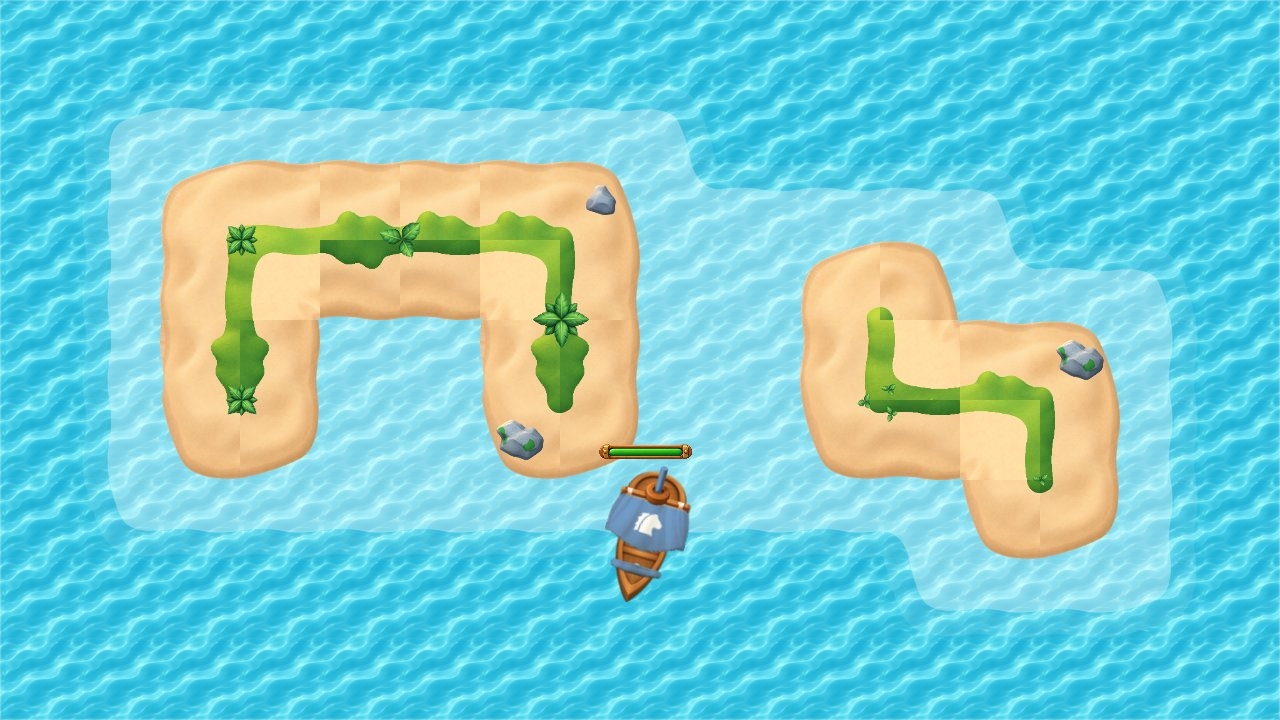
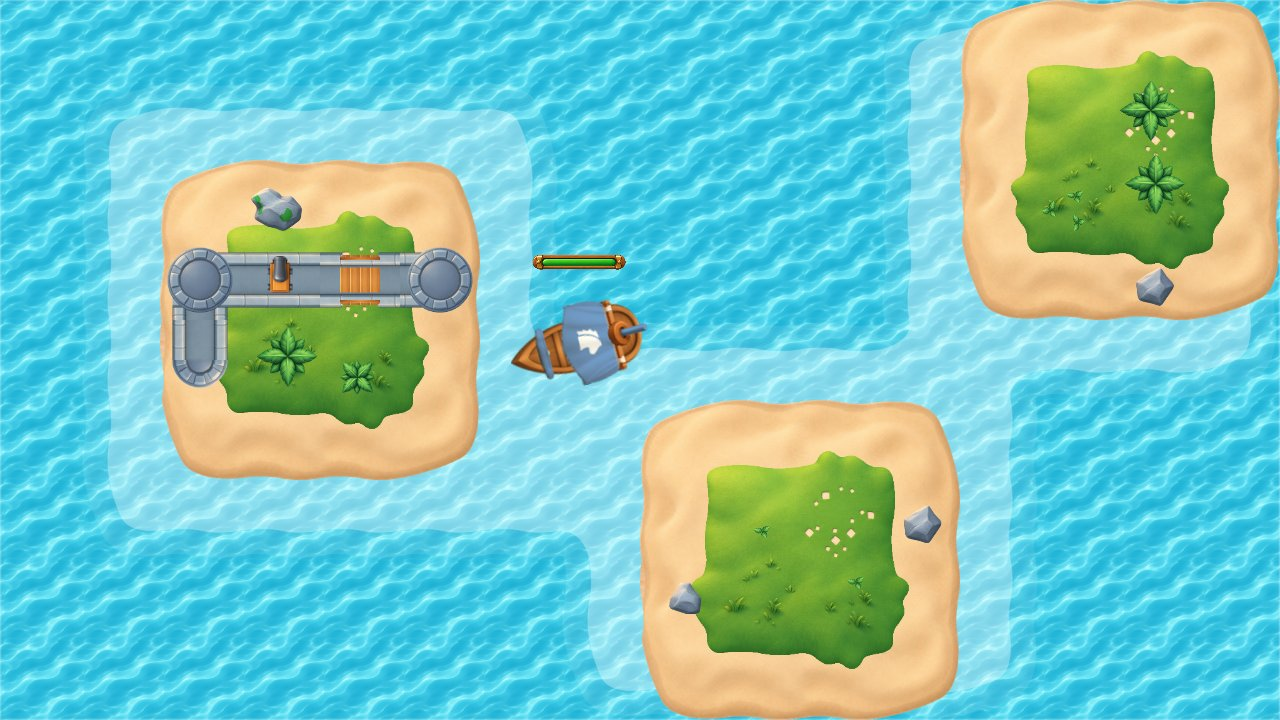
docs: record the arena polish, mockup comparison and new balance numbers

diff --git a/docs/DECISIONS.md b/docs/DECISIONS.md
@@ -20,7 +20,7 @@ Newest phase first within each section.
 | Chaser             | HP 30, speed 105 u/s, turn 120°/s, ram damage 20 (rebalanced, DECISIONS S17).                                                                                                                                                      |
 | Shooter            | HP 50, speed 90 u/s, turn 90°/s, range 300 u, standoff 220 u, dmg 7, cd 2.5 s (rebalanced, DECISIONS S17), aim tolerance 12°.                                                                                                      |
 | Damage stages      | HP ratio > 2/3 → 0; > 1/3 → 1; > 0 → 2; dead → 3 (wreck, 0.8 s sink fade, non-colliding). Fire effect at stage ≥ 1.                                                                                                                |
-| HP bar colours     | Player: green > 50 %, amber > 25 %, red. Enemy: green > 40 %, red (no amber enemy fill in the atlas).                                                                                                                              |
+| HP bar colours     | Player: green > 50 %, amber > 25 %, red. Enemy: always red, as in the mockup (revised in Phase 2 polish, R17).                                                                                                                     |
 | Ship colours       | Player blue (`ship_5`), Chaser black skull (`ship_2`), Shooter red (`ship_3`).                                                                                                                                                     |
 | Scoring            | +1 only on `shipDestroyed` with `killer === player`; ram death = 0.                                                                                                                                                                |
 | Effective duration | Active (unpaused) simulated seconds until end.                                                                                                                                                                                     |
@@ -36,10 +36,10 @@ Newest phase first within each section.
 | #   | Decision                                                                                                                                                                                                                                                                                                                                                                                                                                                                                                                                                                                                                                                                                                                                                                                                                                                                                                                                                                                                                                                                                                                                                                                                                                                                |
 | --- | ----------------------------------------------------------------------------------------------------------------------------------------------------------------------------------------------------------------------------------------------------------------------------------------------------------------------------------------------------------------------------------------------------------------------------------------------------------------------------------------------------------------------------------------------------------------------------------------------------------------------------------------------------------------------------------------------------------------------------------------------------------------------------------------------------------------------------------------------------------------------------------------------------------------------------------------------------------------------------------------------------------------------------------------------------------------------------------------------------------------------------------------------------------------------------------------------------------------------------------------------------------------------- |
 | R1  | **2× ship atlas from the vector.** `pnpm assets:build` rasterizes `assets/vector/ships_miscellaneous_vector.svg` at 2× with **`@resvg/resvg-js`** (dev dependency: a maintained, dependency-free SVG renderer with prebuilt binaries for Windows and Linux, no native build step). The SVG is a 1280×720 overview in the `preview.png` layout with no sprite ids, so read as-is none of the 102 frames lines up with the 1024×512 sheet. A one-time offline script (`scripts/locate-vector-frames.mjs`, coarse search on 4×-reduced images, small frames at full 1×, refinement at half-pixel precision, ~1 min) located **95 of 102 frames**, including all 34 the game draws (ships, ball, explosions, fire, debris; worst error 6.4/255); its result is committed as `scripts/data/ships-vector-frames.json`. Not located: `crew_1…6` (error 17–23: drawn differently in the overview) and `pole` (10.4) — unused in the game, upscaled from 1× in the 2× sheet. The build re-packs the 2× raster into the 1× layout and ships `ships_sheet@2x` only if **every** frame, box-filtered back to 1×, matches the raster sheet (tolerance 8/255 per channel); otherwise it falls back to 1× (status in `manifest.json`). Guarded by `tests/tooling/vectorAtlas.test.ts`. |
-| R2  | **Map change.** The L island's one-tile step (row 5) needs an edge and a concave corner in one tile, which the shore tile sets do not have. Row 4 of the L now spans cols 10–13 (+2 island cells). `validateMap` gained a rule backed by `shoreShape` (core): every island cell must map to one fill/edge/outer/inner-corner tile, so art and collision can never drift apart again.                                                                                                                                                                                                                                                                                                                                                                                                                                                                                                                                                                                                                                                                                                                                                                                                                                                                                    |
-| R3  | **Tile set and padding.** Islands use the sand-with-grass set (6–9/22–25/38–41/54–57); the "sand clearing" tiles 36/37/52/53 serve as concave corners (their borders line up with the edge tiles, checked pixel by pixel). Shallow water (10–12/26–28/42–44, concave 58/59/74/75) rings every island by one tile; where two rings meet in an undrawable step the mask is grown until drawable. The tile sheet has no spacing, so the build re-packs it with 2 px (4 px at 2×) of edge extrusion: linear filtering at non-integer scales no longer samples neighbouring tiles (seams).                                                                                                                                                                                                                                                                                                                                                                                                                                                                                                                                                                                                                                                                                   |
+| R2  | **Map change** (superseded by R15; the layout lives on as `POCKET_MAP` for system tests). The L island's one-tile step (row 5) needs an edge and a concave corner in one tile, which the shore tile sets do not have. Row 4 of the L now spans cols 10–13 (+2 island cells). `validateMap` gained a rule backed by `shoreShape` (core): every island cell must map to one fill/edge/outer/inner-corner tile, so art and collision can never drift apart again.                                                                                                                                                                                                                                                                                                                                                                                                                                                                                                                                                                                                                                                                                                                                                                                                          |
+| R3  | **Tile set and padding.** Islands use the sand-with-grass set (6–9/22–25/38–41/54–57, see R14 for how it is laid out); the "sand clearing" tiles 36/37/52/53 serve as concave corners. Shallow water (10–12/26–28/42–44, concave 58/59/74/75) rings every island by one tile; where two rings meet in an undrawable step the mask is grown until drawable. The tile sheet has no spacing, so the build re-packs it with 2 px (4 px at 2×) of edge extrusion: linear filtering at non-integer scales no longer samples neighbouring tiles.                                                                                                                                                                                                                                                                                                                                                                                                                                                                                                                                                                                                                                                                                                                               |
 | R4  | **Collision vs shore art.** Measured on the tiles: straight shores lie 0–3 px (mean 1.5) inside the tile edge → `arena.islandCollisionInset` stays **0**. The rounded corners fit a circle; a square collision corner left up to 24 px of water between hull and sand on the diagonal. New `arena.islandCornerRadius` = **61**: best single radius against the corner tiles (max 4.0 px of water and 4.0 px of sand overlap anywhere on the arc, ≈ 2.7 px near the diagonal; 59 → 4.4 px gap, 62 → 4.4 px overlap). Only convex shore corners are rounded (an island cell whose two outer neighbours are water — exactly the cells drawn with corner tiles, tested); junctions between rects of one island stay square, so nothing can tunnel there. Ships (circle vs corner circle) and balls (swept, exact against the convex rounded rect) use the same shape; spawner, steering feelers and line of sight too. Side effect: the naive bot no longer gets trapped on square corners, so the bot test stopped comparing Chaser rams (BALANCE re-run: skilled median 89.4 → 93.4 s, time_up 6 → 4 %; naive 90.5 → 98.9 s, 4 → 24 %).                                                                                                                                   |
-| R5  | **Render reads, never decides**: views take `DeepReadonly<World>`; a Node unit test renders a deep-frozen world. Effects/sounds come only from `DomainEvent`s through pure mappings; positions interpolate with the stepper alpha; ship views, balls, effects and HP bars are pooled. Enemy bars: `enemy_health_frame` at 0.4 (64 px wide over a 66 px ship), green > 40 % else red; player bar: `health_frame` at 0.3 with green/amber/red. Fill clipped by its texture frame from `ui.layout.fill_rect` (no masks, so bars batch).                                                                                                                                                                                                                                                                                                                                                                                                                                                                                                                                                                                                                                                                                                                                    |
+| R5  | **Render reads, never decides**: views take `DeepReadonly<World>`; a Node unit test renders a deep-frozen world. Effects/sounds come only from `DomainEvent`s through pure mappings; positions interpolate with the stepper alpha; ship views, balls, effects and HP bars are pooled. Enemy bars: `enemy_health_frame` at 0.4 (64 px wide over a 66 px ship), always red (R17); player bar: `health_frame` at 0.3 with green/amber/red. Fill clipped by its texture frame from `ui.layout.fill_rect` (no masks, so bars batch).                                                                                                                                                                                                                                                                                                                                                                                                                                                                                                                                                                                                                                                                                                                                         |
 | R6  | **Render-side constants** (frames, effect timings, bar scales, shake) live in `src/game/render/theme.ts`: presentation, not balancing, so they stay out of `GameConfig`. Effects and water drift advance by the session clock, so a paused/manual clock freezes them too.                                                                                                                                                                                                                                                                                                                                                                                                                                                                                                                                                                                                                                                                                                                                                                                                                                                                                                                                                                                               |
 | R7  | **Assets**: one Pixi bundle (`combat`) from a generated `manifest.json`, loaded once per page; `@2x` variants chosen when `devicePixelRatio × viewport scale > 1` (fixed at the first load). A failed load is not cached by Pixi, so Retry just loads again; combat never starts before the art. Asset-failure e2e uses `browserContext.route` (MSW's service worker forwards asset requests itself, which `page.route` does not see) — no special production code path.                                                                                                                                                                                                                                                                                                                                                                                                                                                                                                                                                                                                                                                                                                                                                                                                |
 | R8  | **Lifecycle**: session boot is abort-aware; Pixi v8 `init` cannot be cancelled, so an aborted init destroys its app before attaching the canvas. Resource counters (apps, ticker callbacks, listeners, observers, dynamic textures, audio loops; plus canvases, display objects, cached textures in the report) are always on (integer bookkeeping) and exposed via `?test=1`. Strict Mode is tested against the Vite dev server (Playwright project `dev-strict-mode`) because production builds never double-mount.                                                                                                                                                                                                                                                                                                                                                                                                                                                                                                                                                                                                                                                                                                                                                   |
@@ -47,7 +47,24 @@ Newest phase first within each section.
 | R10 | **Lazy-loaded game screen and test hook**: `GameScreen` is `React.lazy`, and `main.tsx` imports the test hook dynamically only with `?test=1`, so Pixi (~0.3 MB min) is not in the menu's entry chunk (223 kB).                                                                                                                                                                                                                                                                                                                                                                                                                                                                                                                                                                                                                                                                                                                                                                                                                                                                                                                                                                                                                                                         |
 | R11 | **Audio** after a user gesture only (or `userActivation.hasBeenActive`), decoded in the background; missing buffers are skipped, failures warn once. Mute persistence and its toggle come with the Options/HUD UI (Phase 4).                                                                                                                                                                                                                                                                                                                                                                                                                                                                                                                                                                                                                                                                                                                                                                                                                                                                                                                                                                                                                                            |
 | R12 | **Placeholder UI**: until Phase 4 the menu is a Play button and the game screen has a Main menu button; the player ship stays idle until Phase 3 input.                                                                                                                                                                                                                                                                                                                                                                                                                                                                                                                                                                                                                                                                                                                                                                                                                                                                                                                                                                                                                                                                                                                 |
+| R14 | **Island art is one painted 4×4 island** (Phase 2 polish). Measured on the sheet: neighbours inside the block 6–9 / 22–25 / 38–41 / 54–57 meet with a mean colour step of 1–3 (0–255), but a tile next to itself or any other combination steps 10–60 (`23` above `23`: 29; `8` above `23`: 22; repeating the middle with period 2: 11–57). Hash-picked variants per cell therefore drew a visible tile grid and the darker grass strip of the old U island. Now every cell takes the tile at its position along its row and column runs (0 = near shore, 3 = far shore, middle alternates 1/2 from the shore), and the map uses islands whose runs are all exactly 4 (asserted by a unit test) — the only length the art draws without seams (2- and 3-runs measured 28–59). Four borders of the painted block still step 8–10 in the sand rim (`7                                                                                                                                                                                                                                                                                                                                                                                                                     | 8`, `55 | 56`, `25/41`); the build heals them by moving each border pixel pair to its midpoint with the correction fading over 8 px (16 at 2×), keeping detail (`scripts/lib/atlas.mjs` `healSeams`; every border ≤ 1 afterwards, tested on both sheets). Verified on zoomed captures at 1× (1024×576) and 2× (1280×720): no grid in sand or grass. Concave corners (non-4×4 maps, tests only) still use the sand-clearing tiles. |
+| R15 | **Map redesign** (Phase 2 polish). Three 4×4 islands: a fort island inside on the left (cols 2–5, rows 2–5), one in the top-right corner (cols 12–15, rows 0–3) and one on the bottom edge (cols 8–11, rows 5–8), like the mockup's islands at the screen edges; the middle stays open. All map rules hold (drawable, channels ≥ 2 cells, connected water). Islands may touch the arena border: their shore art is drawn there and their corners are rounded there too (outside the grid counts as open water for rounding). Player spawn moved to open water (448, 288) because the bottom island covers the old one. The Phase 1–2 layout is kept as `POCKET_MAP` (`game/core/testing/maps.ts`) for isolated system tests (concave pocket, multi-rect junctions), which also pin their own spawn (`SYSTEM_TEST_SPAWN`), so they no longer depend on the real map. **Balance** (50 seeds): skilled median 93.4 → **112.3 s**, time_up 4 → **26 %** (now inside 15–50 %, median 2.3 s above the 110 s bound); naive 98.9 → 111.2 s, 24 → 38 %. Not retuned here; to revisit with manual play (Phases 3–4).                                                                                                                                                              |
+| R16 | **Decoration** (never collides, tested on land): a hand-placed stone fort on the left island (`FORT` in `render/theme.ts`: tower E+S 77, cannon wall 47, bridge 76, tower W 62, wall end 79; tiles chosen by the sides they connect, measured on the sheet), then seeded plants on the grass core (≤ 7) and rocks on the sand rim (≤ 4), ≥ 56 u apart and off the fort — roughly the mockup's density.                                                                                                                                                                                                                                                                                                                                                                                                                                                                                                                                                                                                                                                                                                                                                                                                                                                                  |
+| R17 | **Readability** (Phase 2 polish): cannonball trails use one shared 32×1 alpha-ramp texture (built from bytes, premultiplied), fading from 0.8 at the ball to 0 at the tail, up to 72 u, 4 u wide (white streaks of the mockup). Enemy HP bars are always red; the player's stays green/amber/red. **Bug fixed**: the HP bar's private clip texture lacked `dynamic: true`, so in WebGL the batcher kept the first quad and UVs and the fill never visibly shrank (damaged enemies showed a misplaced fill); found on zoomed captures, reproduced and verified in the real renderer, guarded by a unit test.                                                                                                                                                                                                                                                                                                                                                                                                                                                                                                                                                                                                                                                             |
 | R13 | **E2E arena timeout 15 s**: WebGL starts on a software rasterizer in headless Chromium (~1 s alone, several seconds with parallel workers and two web servers; asset loading ~0.1 s).                                                                                                                                                                                                                                                                                                                                                                                                                                                                                                                                                                                                                                                                                                                                                                                                                                                                                                                                                                                                                                                                                   |
+
+### Phase 2 polish: comparison with the mockup (`assets/sample.png` vs `docs/screenshots/phase2/`)
+
+| Aspect           | Mockup                                           | Now (desktop-02-mid-fight, desktop-01-match-start)                                                           | Before the polish                                            |
+| ---------------- | ------------------------------------------------ | ------------------------------------------------------------------------------------------------------------ | ------------------------------------------------------------ |
+| Island shape     | Large painted islands, cut by the screen edges   | Three 4×4 islands, two touching the arena border, grass core with sand rim                                   | Two 2-cell-thick islands: mostly sand with a thin grass line |
+| Tiling           | Painted, no grid                                 | No visible tile grid at 1× and 2× (R14)                                                                      | Visible grid in sand and grass, darker grass strip           |
+| Fort             | Towers, walls, bridge, cannons on one island     | Tower – cannon wall – bridge – tower, wall stub (R16)                                                        | None                                                         |
+| Props            | Plants on grass, rocks, beached boats            | Plants on grass, rocks on sand (no boats: those tiles are opaque sand squares)                               | A few plants/rocks on 2-thick islands                        |
+| Shallow water    | Light ring around islands                        | Same (one-tile ring)                                                                                         | Same                                                         |
+| Shots            | White streaks behind balls                       | Fading white trails (R17)                                                                                    | Faint flat trail                                             |
+| HP bars          | Red over enemies, green/amber/red for the player | Same, fill clipped correctly (R17 bug fix)                                                                   | Green/red enemies, fill not shrinking in WebGL               |
+| Differences left | —                                                | Islands smaller and square (the art only tiles as 4×4), no beached props, HUD/touch controls come in Phase 4 | —                                                            |
 
 ## Phase 1 — simulation core
 

diff --git a/ARCHITECTURE.md b/ARCHITECTURE.md
@@ -129,10 +129,13 @@ frame to `fill_rect.x + ratio × fill_rect.w` (the atlas `ui.layout`), updated o
 visible width changes, so all bars still batch (no masks).
 
 **Arena art from the collision grid.** `shoreShape` (core) classifies every solid cell as
-fill / edge / outer corner / inner corner; the renderer maps those to the grass-island tile
-set and, for the dilated mask around the islands, to the shallow-water set. `validateMap`
-rejects any layout with a cell no tile can draw, so a valid map is always drawable (a
-property test checks random valid maps). Decoration sits only on land and never collides.
+fill / edge / outer corner / inner corner; `validateMap` rejects any layout with a cell no tile
+can draw, so a valid map is always drawable (a property test checks random valid maps). The
+grass-island tiles are one painted 4×4 island, so each island cell takes the tile at its
+position along its row and column runs; the map only uses 4×4 islands, the one size the art
+draws seamlessly, and the build heals the small colour steps left inside the painting
+(DECISIONS R14). The dilated mask around the islands uses the shallow-water set by shape.
+Decoration (a hand-placed fort, seeded plants and rocks) sits only on land and never collides.
 
 **Viewport.** The 1024×576 world is fitted into the container ("contain") and centred;
 renderer resolution = `min(devicePixelRatio, 2)` with `autoDensity`. A `ResizeObserver`
@@ -281,14 +284,15 @@ _Phase 5–6._
   damage 25 → 20, then fallback variant A (player HP 100 → 200, Shooter dmg 10 → 7, cooldown
   1.8 → 2.5 s). A grid with slower Shooter balls (280/320 u/s) barely moved the numbers,
   because the bots never steer away from incoming balls. Skilled median 36.2 s → 89.4 s,
-  time_up 0 % → 6 %; after the Phase 2 map change and rounded corners 93.4 s / 4 %, so
-  **the time_up bound is still not met**. Full table:
+  time_up 0 % → 6 %; after the Phase 2 maps and rounded corners 112.3 s / 26 %: the time_up
+  share is now inside the target, the median 2.3 s above it (DECISIONS R15). Full table:
   [docs/DECISIONS.md](docs/DECISIONS.md) S17–S18. **Final tuning will be validated by manual
   play in Phases 3–4.**
 - Enemy AI is deliberately simple: no strafing, no prediction of the player's motion, and
   enemies only avoid each other through physical separation.
-- Island art: each Kenney sand tile has its own soft shading, so faint tone steps remain
-  visible between tiles (bleeding seams are gone thanks to the padded atlas). The crew and pole
-  frames (unused) are upscaled 1× art inside the 2× ship sheet (DECISIONS R1).
+- Island art: the delivered grass-island tiles only tile seamlessly as one 4×4 island, so
+  every island is 4×4 (DECISIONS R14); larger or irregular islands like the mockup's would need
+  new art. The crew and pole frames (unused) are upscaled 1× art inside the 2× ship sheet
+  (DECISIONS R1).
 - Spawn backlog is unbounded by design (a due spawn is never dropped); with the 25-enemy cap it
   only builds up if the player leaves enemies alive for a long time.

diff --git a/docs/BALANCE.md b/docs/BALANCE.md
@@ -21,12 +21,12 @@ Config: session 120 s · spawn every 3 s · weights chaser 0.5 / shooter 0.5 · 
 
 | Metric                    | naive mean | naive median | skilled mean | skilled median |
 | ------------------------- | ---------- | ------------ | ------------ | -------------- |
-| Match duration (s)        | 100.6      | 98.9         | 95.1         | 93.4           |
-| Score (enemies destroyed) | 27.4       | 27.0         | 26.0         | 25.0           |
-| Chasers spawned           | 16.5       | —            | 16.6         | —              |
-| Shooters spawned          | 16.4       | —            | 14.6         | —              |
+| Match duration (s)        | 107.1      | 111.2        | 104.3        | 112.3          |
+| Score (enemies destroyed) | 30.8       | 32.0         | 29.5         | 32.0           |
+| Chasers spawned           | 18.4       | —            | 17.8         | —              |
+| Shooters spawned          | 16.6       | —            | 16.3         | —              |
 
 | End reason | naive matches | naive share | skilled matches | skilled share |
 | ---------- | ------------- | ----------- | --------------- | ------------- |
-| time_up    | 12            | 24 %        | 2               | 4 %           |
-| defeated   | 38            | 76 %        | 48              | 96 %          |
+| time_up    | 19            | 38 %        | 13              | 26 %          |
+| defeated   | 31            | 62 %        | 37              | 74 %          |

diff --git a/docs/ASSETS.md b/docs/ASSETS.md
@@ -81,6 +81,9 @@ See `docs/reference/tiles_grid.png`. Key groups:
 
 Islands must be built from these tiles on a grid. Collision shapes come from
 the island layout data (tile grid → rectangles/polygons), never from pixels.
+The sand-with-grass tiles 6–9 / 22–25 / 38–41 / 54–57 are one painted 4×4
+island (lit from the top-left): they tile without seams only in that order, so
+the arena uses 4×4 islands (docs/DECISIONS.md R14).
 
 Atlases: `assets/tilesheet/tiles_sheet.png` (1024×384) / `tiles_sheet_retina.png`
 (2048×768): a 16×6 grid of 64 px (128 px) cells, no margin, per `tilesheets.txt`.
